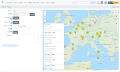
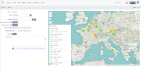
Changed screenshots on about page and my name for the THANADOS project to Richards

diff --git a/openatlas_website/templates/about.html b/openatlas_website/templates/about.html
@@ -51,26 +51,37 @@
     </div>
     <p class="mb-1" style="font-weight: bold;">Screenshots</p>
     <div id="links" class="mb-3">
-        <a href="/static/images/screenshot/1_big.png" title="About">
-            <img class="screenshot" src="/static/images/screenshot/1_small.png" alt="About">
+        <a href="/static/images/screenshot/1_big.png" title="Overview">
+            <img class="screenshot" src="/static/images/screenshot/1_small.png"
+            alt="Landing page of OpenAtlas with Overview">
         </a>
         <a href="/static/images/screenshot/2_big.png" title="Place overview">
-            <img class="screenshot" src="/static/images/screenshot/2_small.png" alt="Place overview">
+            <img class="screenshot" src="/static/images/screenshot/2_small.png"
+            alt="Overview of places entered">
         </a>
         <a href="/static/images/screenshot/3_big.png" title="Place insert">
-            <img class="screenshot" src="/static/images/screenshot/3_small.png" alt="Place insert">
+            <img class="screenshot" src="/static/images/screenshot/3_small.png"
+            alt="UI used to enter a new place into the database">
         </a>
         <a href="/static/images/screenshot/4_big.png" title="Network">
-            <img class="screenshot" src="/static/images/screenshot/4_small.png" alt="Network">
+            <img class="screenshot" src="/static/images/screenshot/4_small.png"
+            alt="Network of entered entities">
         </a>
         <a href="/static/images/screenshot/5_big.png" title="Types">
-            <img class="screenshot" src="/static/images/screenshot/5_small.png" alt="Types">
+            <img class="screenshot" src="/static/images/screenshot/5_small.png"
+            alt="Overview of available types">
+        </a>
+        <a href="/static/images/screenshot/6_big.png" title="Manual">
+            <img class="screenshot" src="/static/images/screenshot/6_small.png"
+            alt="OpenAtlas manual">
         </a>
         <a href="/static/images/screenshot/7_big.png" title="Model">
-            <img class="screenshot" src="/static/images/screenshot/7_small.png" alt="Manual">
+            <img class="screenshot" src="/static/images/screenshot/7_small.png"
+            alt="CIDOC CRM Model for historical data">
         </a>
-        <a href="/static/images/screenshot/6_big.png" title="Model">
-            <img class="screenshot" src="/static/images/screenshot/6_small.png" alt="Model">
+        <a href="/static/images/screenshot/8_big.png" title="Model">
+            <img class="screenshot" src="/static/images/screenshot/8_small.png"
+            alt="CIDOC CRM Model for archaeological data">
         </a>
     </div>
     <p class="mb-1" style="font-weight: bold;">How to use OpenAtlas</p>

diff --git a/openatlas_website/data/project.py b/openatlas_website/data/project.py
@@ -33,7 +33,7 @@ current = {
             'The Anthropological and Archaeological Database of Sepultures',
         'img': 'thanados.png',
         'image_license': 'CC-BY-SA 4.0, Jan Belik',
-        'pi': 'Stefan Eichert, Nina Brundke',
+        'pi': 'Stefan Eichert, Nina Richards',
         'duration': '2019 - 2021',
         'institutes': ['OEAW', 'OeAI', 'ACDH', 'NHM'],
         'text':
